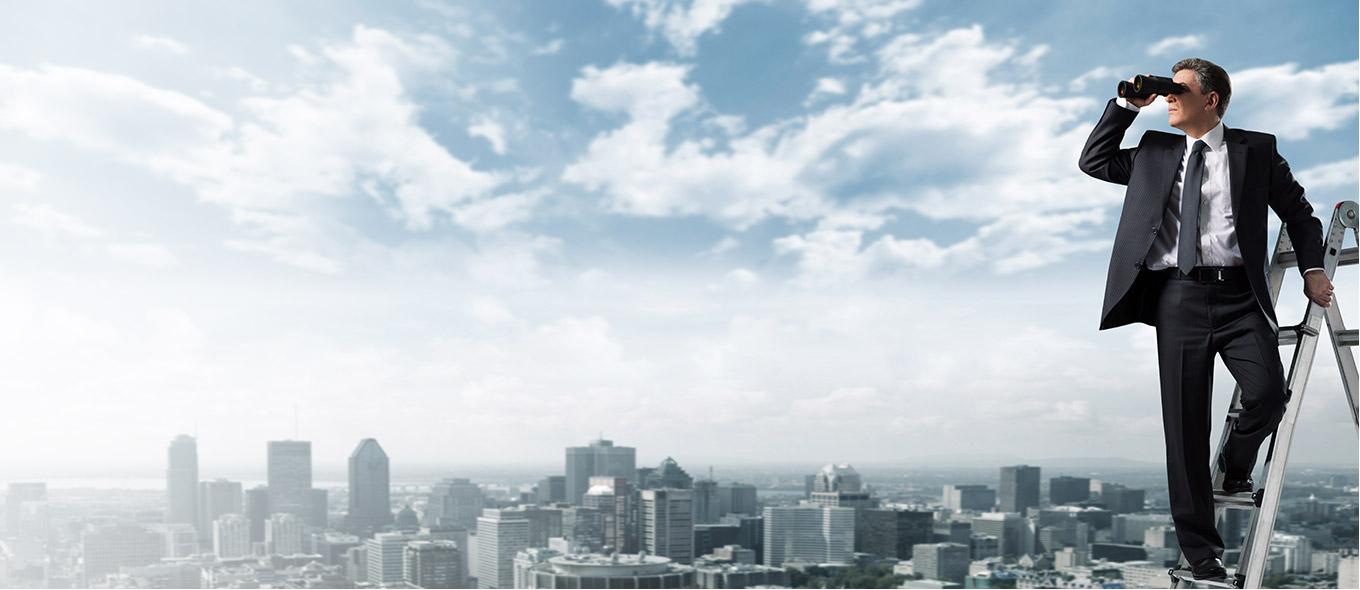
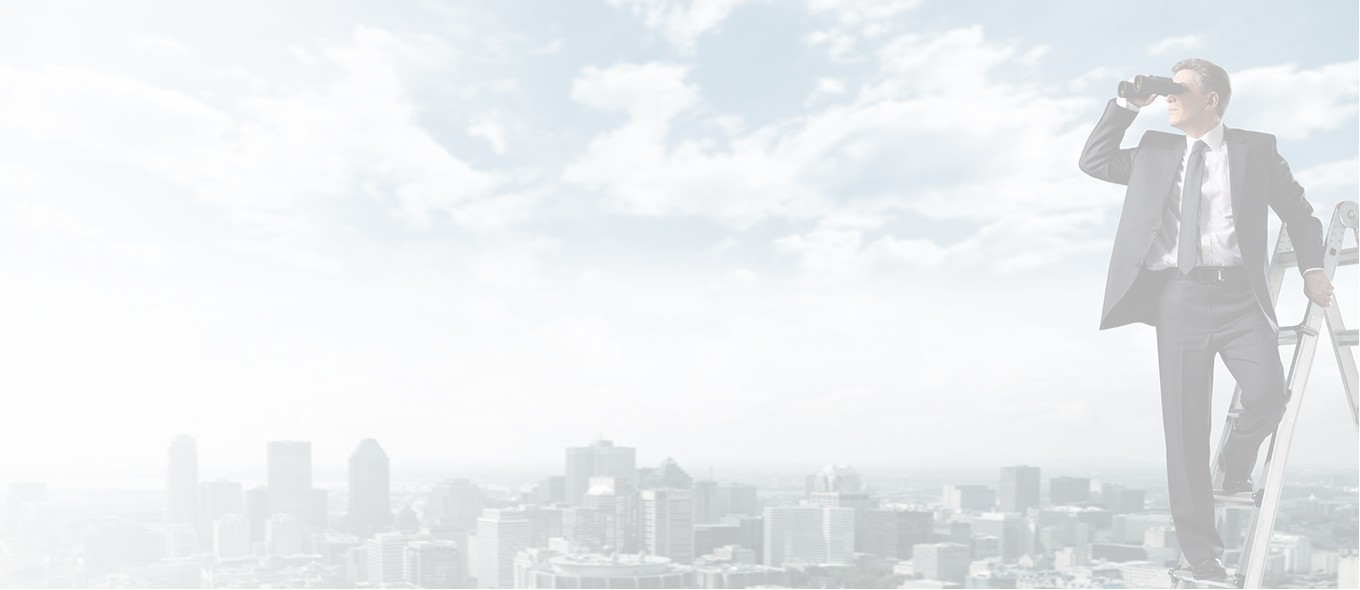
Imagenes de fondo

diff --git a/views/bmisinmuebles.html b/views/bmisinmuebles.html
@@ -48,7 +48,7 @@
                 <td>{% if inmueble.fechaModificacion %}
                     {{inmueble.fechaModificacion.getDate()}}/{{inmueble.fechaModificacion.getMonth()+1}}/{{inmueble.fechaModificacion.getFullYear()}} {{inmueble.fechaModificacion.getHours()}}:{{inmueble.fechaModificacion.getMinutes()}}
                     {% else %} 
-                    No se ha modificado
+                    
                     {% endif %}
                 </td>
                 <td><a href="/inmueble/modificar/{{ inmueble._id.toString() }}">Modificar</a> <br>

diff --git a/views/blistaInmuebles.html b/views/blistaInmuebles.html
@@ -31,7 +31,7 @@
                     <label for="ubicacion">Ubicación:</label>
                     <input name="ubicacion" type="text" class="form-control" id="ubicacion" placeholder="Centro, Calle, ..."/>
                 </div>
-                <button type="submit" class="btn btn-lg btn-default filtrar">Buscar</button>
+                <button type="submit" class="btn btn-lg btn-info filtrar">Buscar</button>
             </fieldset>
         </form>
     </div>

diff --git a/views/binmueble.html b/views/binmueble.html
@@ -13,7 +13,7 @@
         font-size: 14px;
     }
     body{
-        background-image: url("/img/bg-light.jpg");
+        background-image: url("/img/bg.jpg");
         background-size:cover;
     }
 </style>
